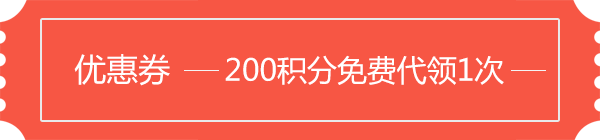
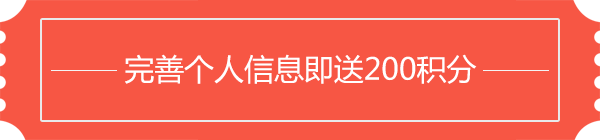
refine coupons

Changed region(s): [[0.09, 0.3714, 0.84, 0.6286]]

diff --git a/templates/portal/index.html b/templates/portal/index.html
@@ -16,7 +16,7 @@
 
     <div class="coupons">
         <div class="container">
-            <a class="entry" href="points"></a>
+            <a class="entry" href="profile"></a>
         </div>
     </div>
 
